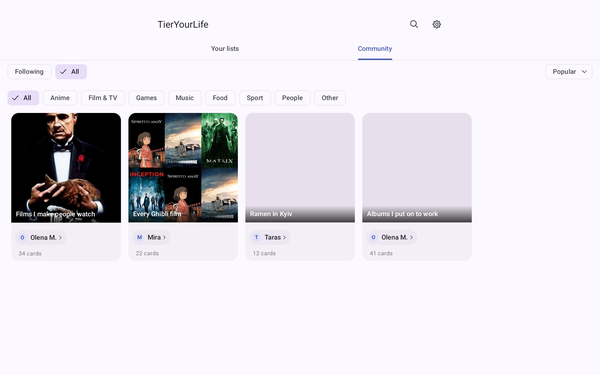
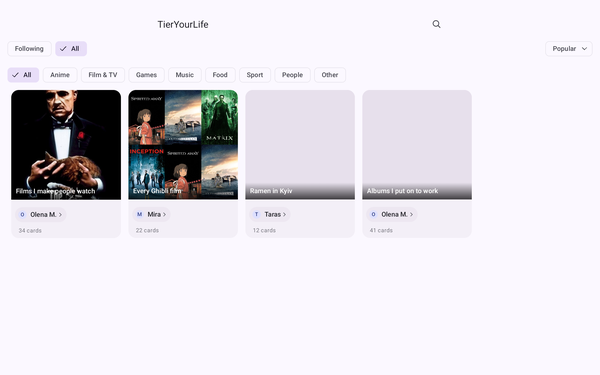
Draw the tablet pictures as a tablet
The three tablet screenshots were the phone layout at tablet size: top tabs,
a settings icon in the corner, content stretched across 1280dp. Not a
regression -- they had never been anything else. `LocalWindowShape` defaults
to Narrow, the app provides the real one in `AppRoot`, and the screenshot
test provided nothing, so every screen it drew believed it was on a phone.

Measured now the same way the app measures it, which also means one run on a
phone and one on a tablet keep telling the truth without a flag to set.

What this does not fix: the rail itself is `internal` to `navigation`, which
these tests cannot reach and should not -- the dependency direction is the
point. So the tablet pictures show each screen having handed the rail its
job and nothing doing it. Said outright under the table rather than left for
a reader to notice.

Worth knowing: `navigation` has no test source set at all, so the rail is
neither pictured nor tested. WindowShapeTest covers which shape a window
gets, not what is drawn for it.

diff --git a/feature/tier/presentation/src/androidTest/kotlin/com/artiuillab/tieryourlife/feature/tier/presentation/common/ReadmeScreenshotTest.kt b/feature/tier/presentation/src/androidTest/kotlin/com/artiuillab/tieryourlife/feature/tier/presentation/common/ReadmeScreenshotTest.kt
@@ -2,10 +2,12 @@ package com.artiuillab.tieryourlife.feature.tier.presentation.common
 
 import android.graphics.Bitmap
 import android.os.Build
+import androidx.compose.foundation.layout.BoxWithConstraints
 import androidx.compose.foundation.layout.fillMaxSize
 import androidx.compose.material3.MaterialTheme
 import androidx.compose.material3.Surface
 import androidx.compose.runtime.Composable
+import androidx.compose.runtime.CompositionLocalProvider
 import androidx.compose.runtime.getValue
 import androidx.compose.runtime.mutableStateOf
 import androidx.compose.runtime.setValue
@@ -20,6 +22,8 @@ import androidx.test.platform.app.InstrumentationRegistry
 import com.artiuillab.tieryourlife.core.settings.HiddenEntry
 import com.artiuillab.tieryourlife.core.settings.ThemeChoice
 import com.artiuillab.tieryourlife.core.theme.TierYourLifeTheme
+import com.artiuillab.tieryourlife.core.theme.layout.LocalWindowShape
+import com.artiuillab.tieryourlife.core.theme.layout.WindowShape
 import com.artiuillab.tieryourlife.feature.account.domain.model.Account
 import com.artiuillab.tieryourlife.feature.tier.domain.model.ListCategory
 import com.artiuillab.tieryourlife.feature.tier.domain.model.ModerationReport
@@ -84,7 +88,18 @@ class ReadmeScreenshotTest {
                 // drew it rather than a box floating on a strip of background.
                 // Which phone is written down in docs/screenshots.md.
                 Surface(Modifier.fillMaxSize(), color = MaterialTheme.colorScheme.surface) {
-                    Screen(screen)
+                    // Measured here for the same reason the app measures it in
+                    // AppRoot: every screen below reads it, and the default is
+                    // Narrow. Without this the tablet run drew the phone layout
+                    // at tablet size -- top tabs and no rail -- for long enough
+                    // that the README described a rail beside a picture of
+                    // tabs.
+                    BoxWithConstraints {
+                        val shape = WindowShape.of(width = maxWidth, height = maxHeight)
+                        CompositionLocalProvider(LocalWindowShape provides shape) {
+                            Screen(screen)
+                        }
+                    }
                 }
             }
         }

diff --git a/README.md b/README.md
@@ -91,6 +91,11 @@ that works perfectly one fold away.
 |:---:|:---:|:---:|
 | <img src="docs/screenshots/tablet/board-light.png" width="300"> | <img src="docs/screenshots/tablet/community-light.png" width="300"> | <img src="docs/screenshots/tablet/settings-dark.png" width="300"> |
 
+The rail is missing from those three on purpose: it belongs to `navigation`, which composes the
+features together, and these are drawn from inside `feature:tier:presentation`, which cannot see
+it. What they do show is each screen having given the rail its job — no tabs, no settings icon,
+no corner button — and the content holding its measure instead of stretching to the glass.
+
 Upright is asked for only while the window is compact, so a phone stays a phone — including a
 folding one, which is two different answers in one body — and a tablet turns freely.
 
